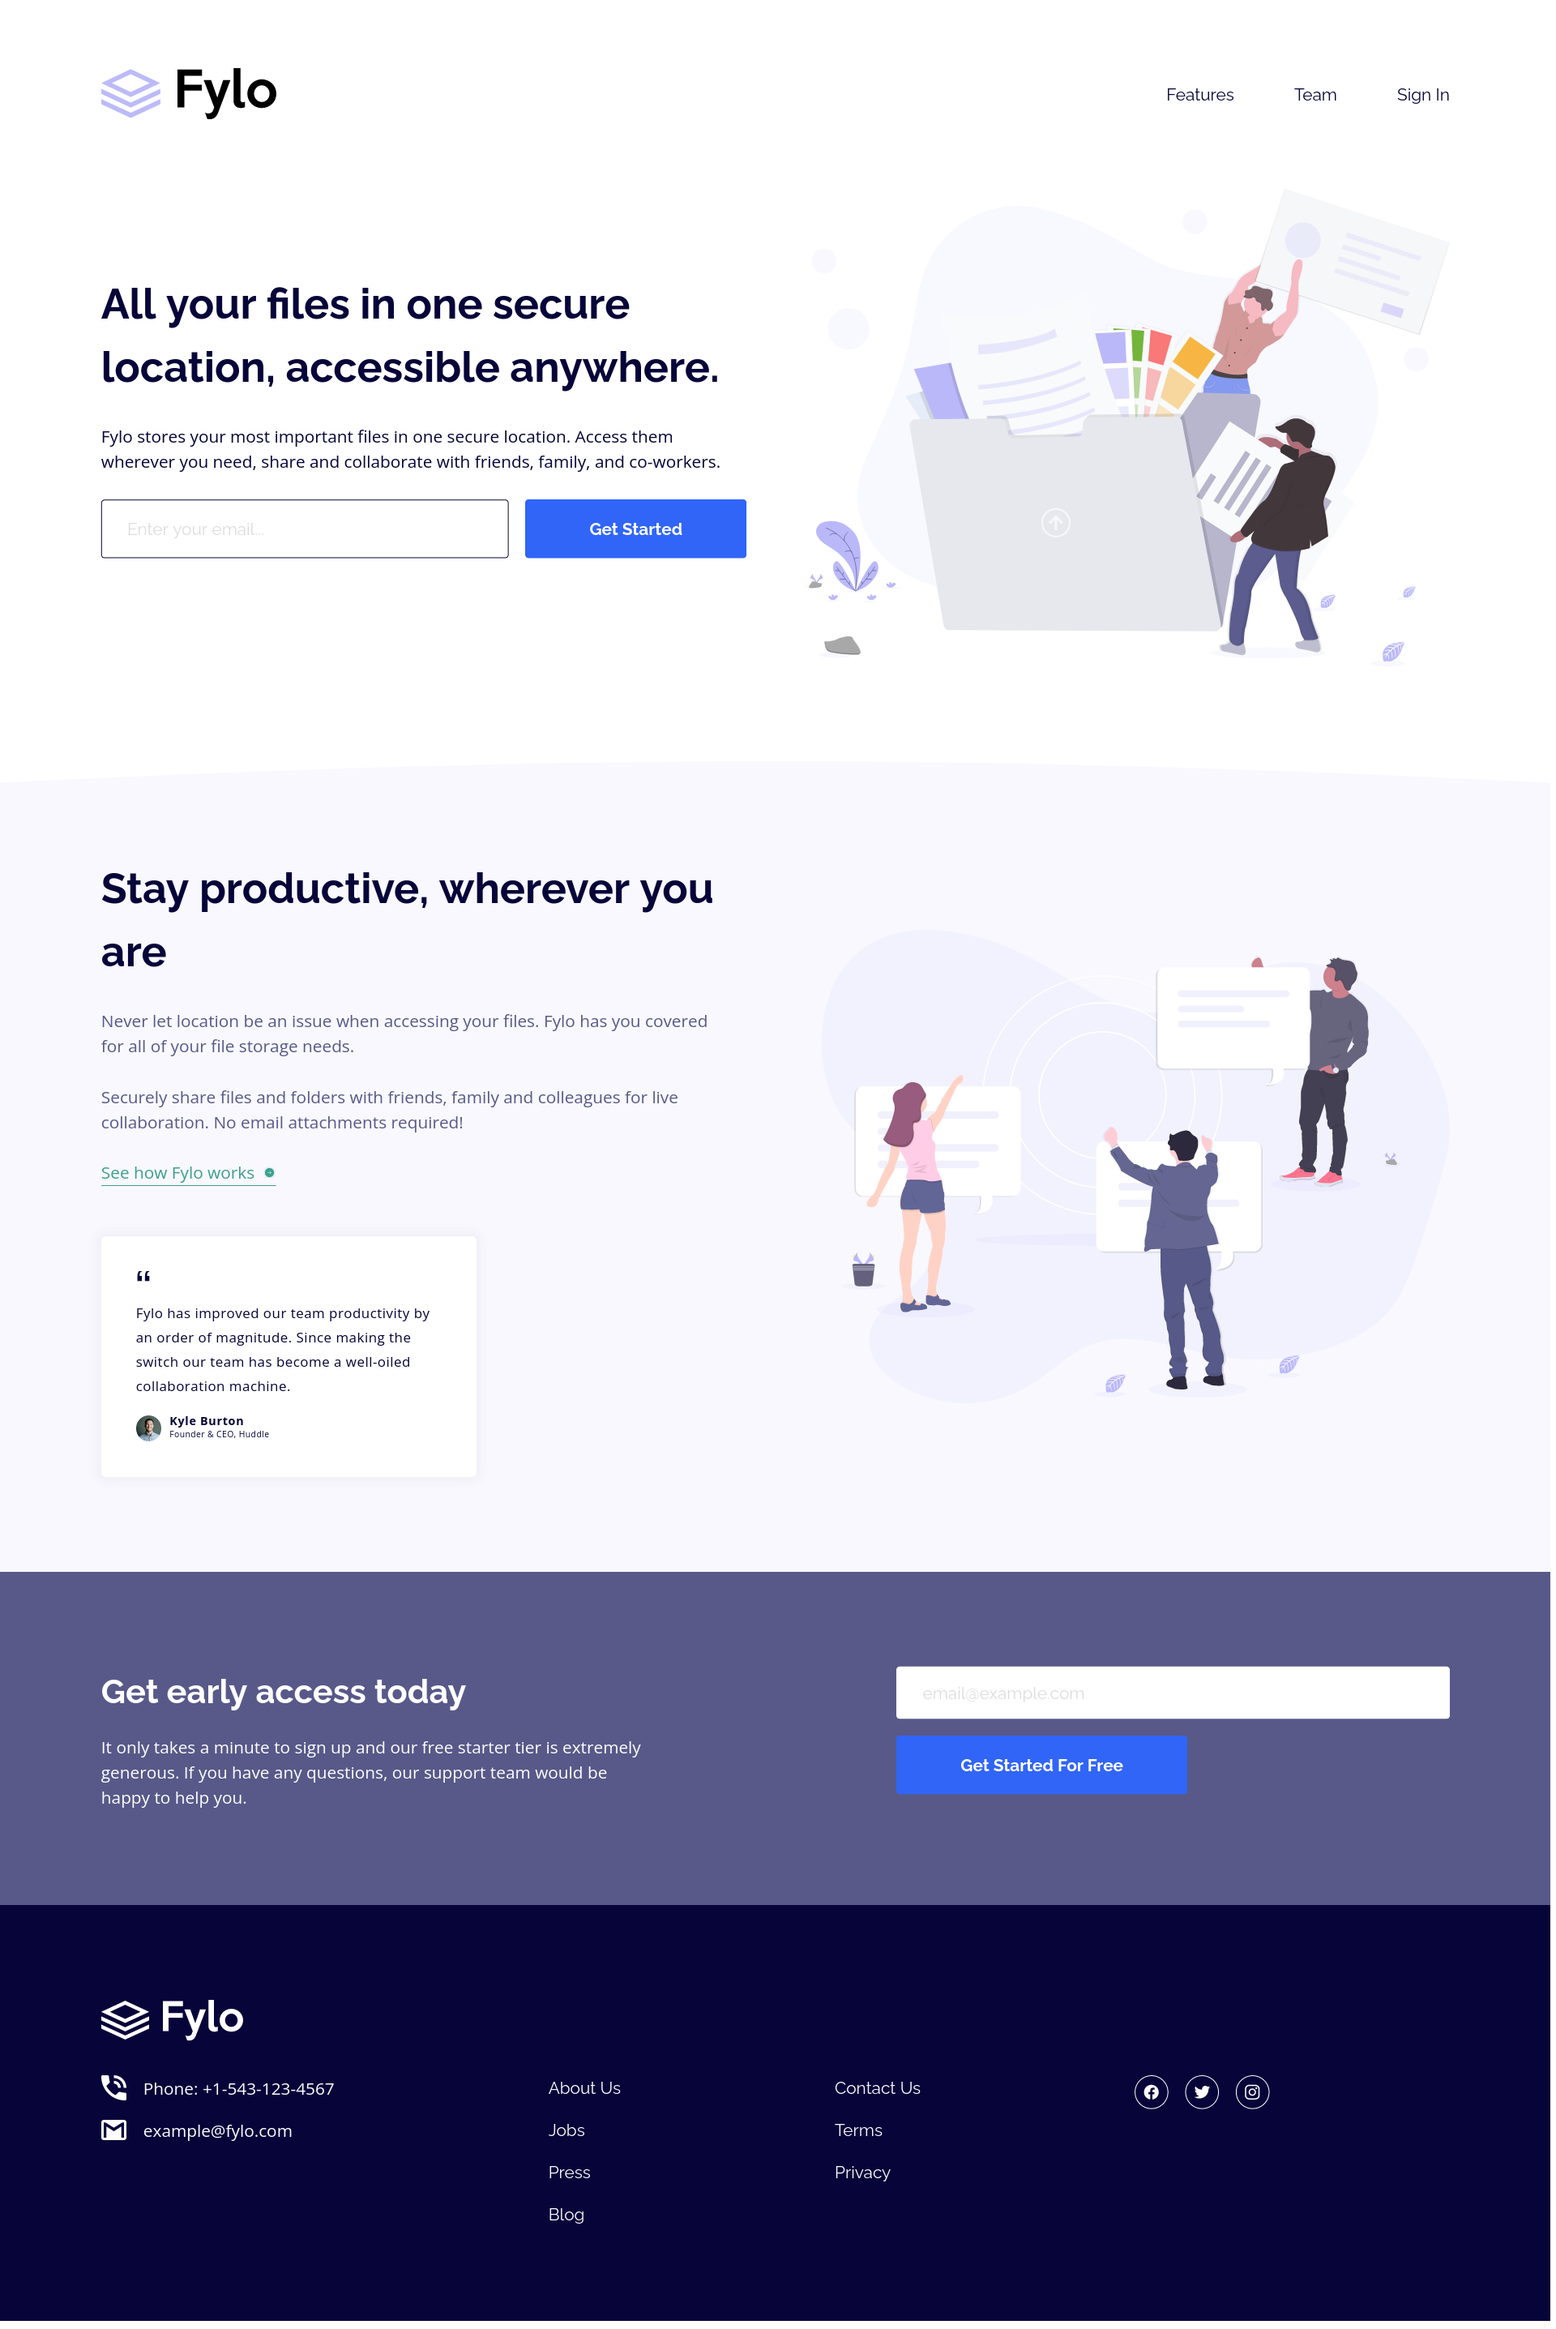
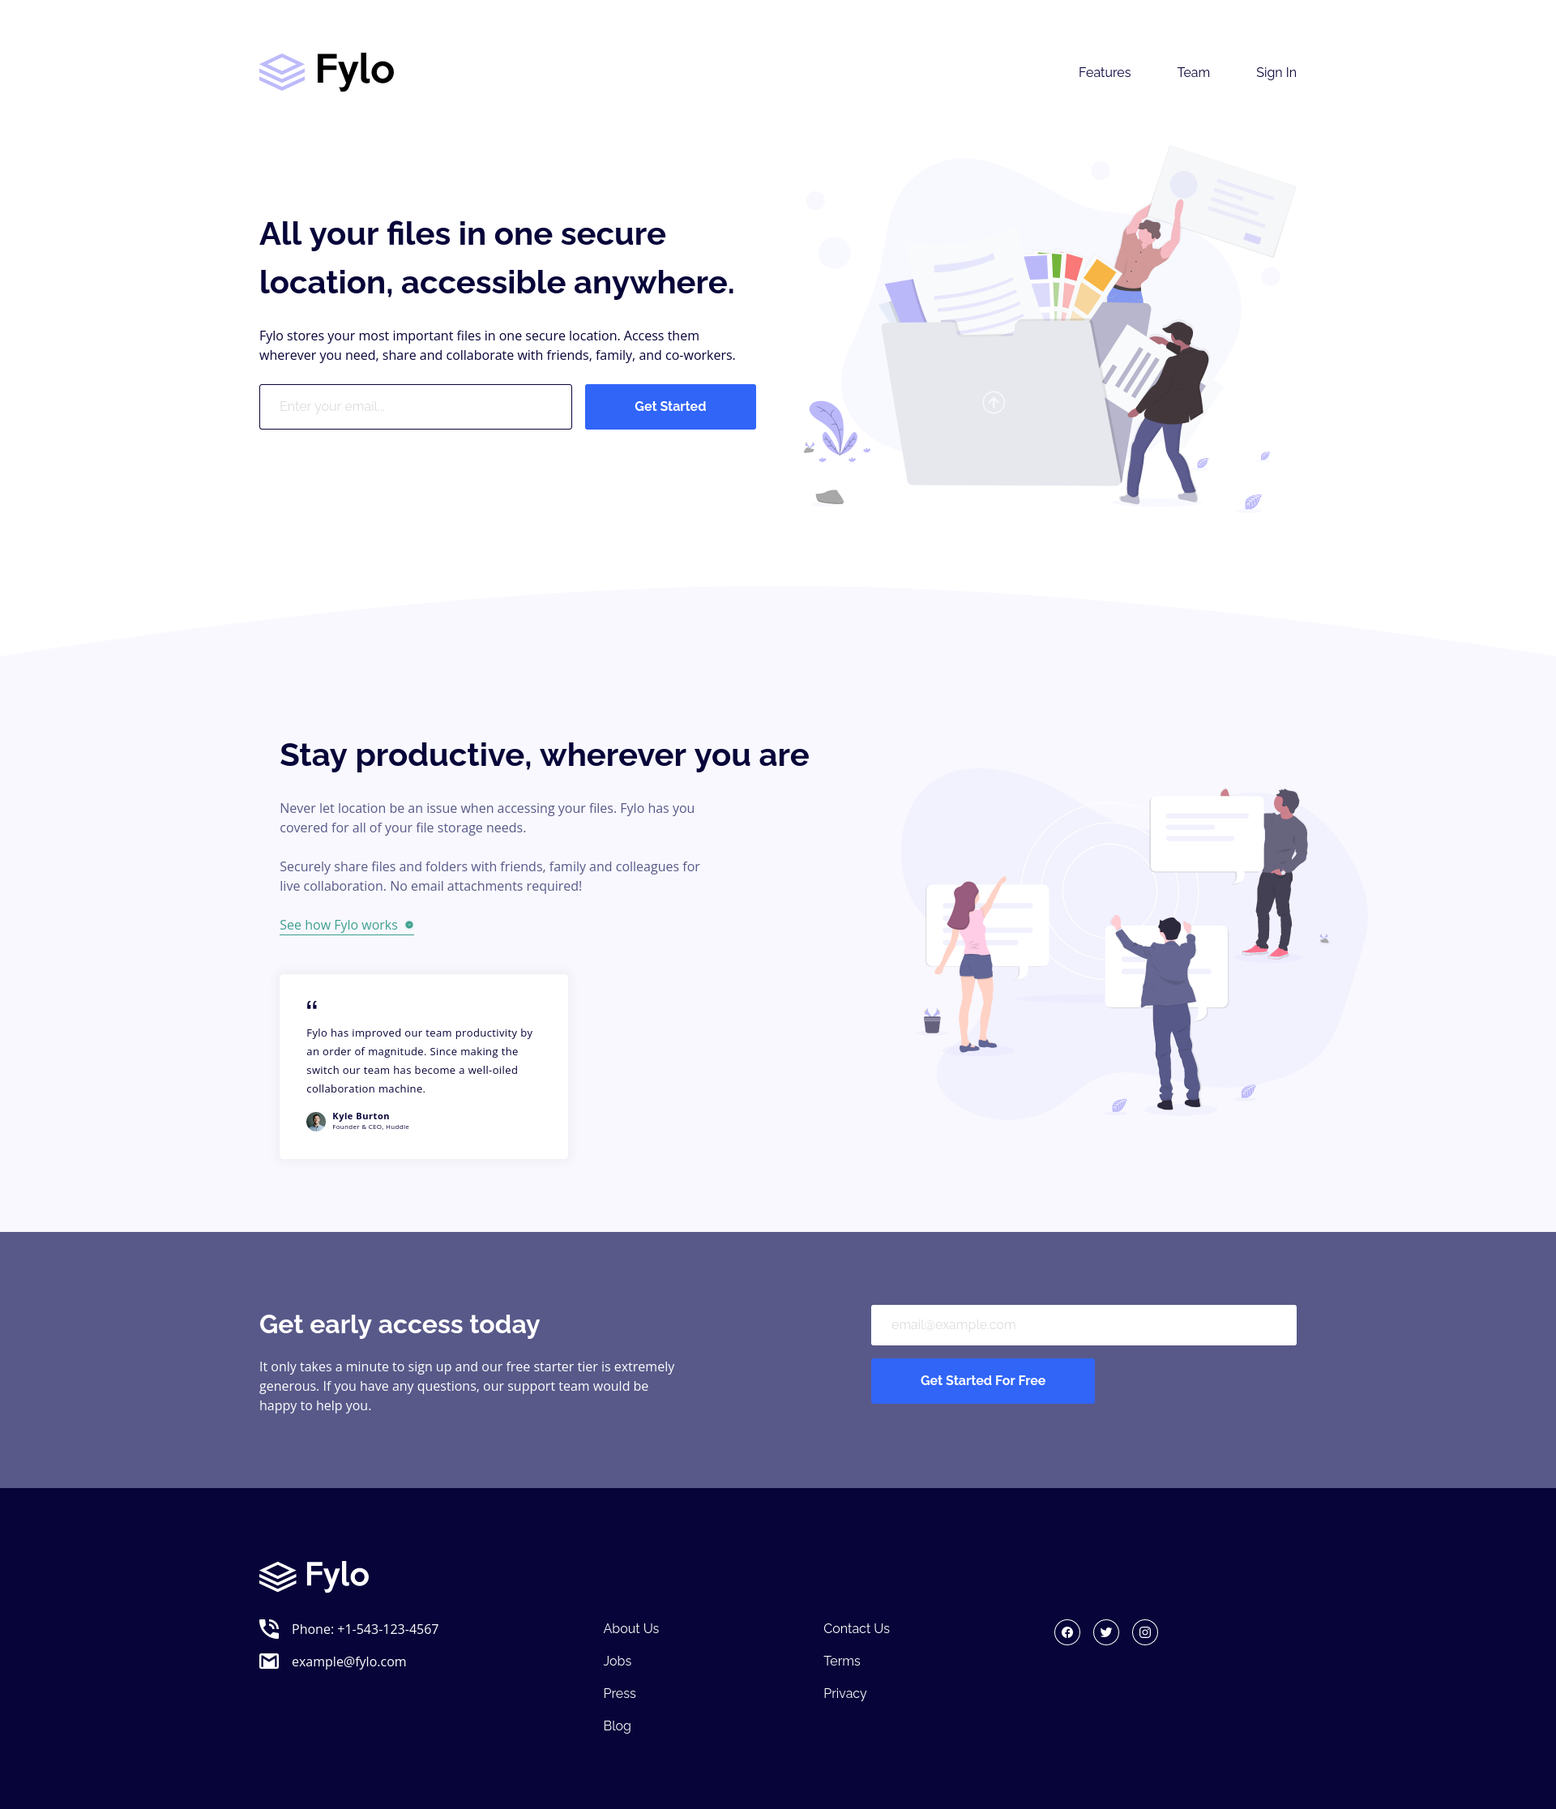
Fix features section font issue

diff --git a/css/main.css b/css/main.css
@@ -309,7 +309,7 @@ input {
 @media (min-width: 64.0625rem) {
   .main .features__section {
     display: grid;
-    grid-template-columns: repeat(2, 1fr);
+    grid-template-columns: repeat(2, 55% 45%);
     gap: 5.5rem;
     align-items: center;
   }
@@ -332,6 +332,11 @@ input {
 }
 .main .features__section__content__description {
   color: hsl(238, 22%, 44%);
+}
+@media (min-width: 64.0625rem) {
+  .main .features__section__content__description {
+    max-width: 33.0625rem;
+  }
 }
 .main .features__section__content__cta {
   max-width: 8.125rem;

diff --git a/sass/main.scss b/sass/main.scss
@@ -97,7 +97,7 @@
     &__section {
       @include grid(auto, 5.5rem);
       @include laptop {
-        @include grid(repeat(2, 1fr), 5.5rem);
+        @include grid(repeat(2, 55% 45%), 5.5rem);
         align-items: center;
       }
       &__image {
@@ -113,6 +113,9 @@
         }
         &__description {
           color: $clr-desaturated-blue;
+          @include laptop {
+            max-width: 33.0625rem;
+          }
         }
         &__cta {
           max-width: 8.125rem;
